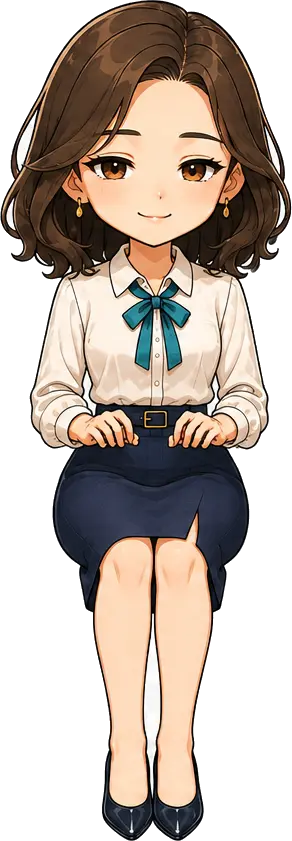
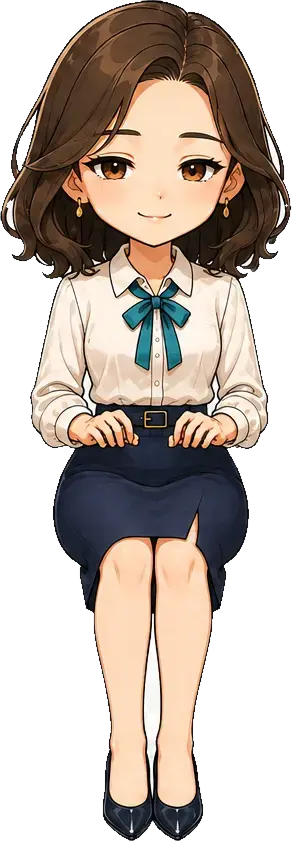
Fix secretary transparency and office scale

diff --git a/web/game.js b/web/game.js
@@ -1521,7 +1521,7 @@ function secretaryArt(candidateId, variant = "face", expression = "neutral") {
       : variant === "office"
         ? `${candidate.id}-office.webp`
         : `${candidate.id}-face-${safeExpression}.webp`;
-  return `<span class="secretary-art-slot secretary-${candidate.id} variant-${variant} expression-${safeExpression}" data-secretary-art="${candidate.id}-${variant}-${safeExpression}" aria-label="${escapeHtml(candidate.name)} ${variant === "resume" ? "증명사진" : variant === "fullbody" ? "전신" : variant === "office" ? "사무실 캐릭터" : "표정"}"><img src="assets/secretary/${filename}?v=20260903-secretary-art-v1" alt="" decoding="async"></span>`;
+  return `<span class="secretary-art-slot secretary-${candidate.id} variant-${variant} expression-${safeExpression}" data-secretary-art="${candidate.id}-${variant}-${safeExpression}" aria-label="${escapeHtml(candidate.name)} ${variant === "resume" ? "증명사진" : variant === "fullbody" ? "전신" : variant === "office" ? "사무실 캐릭터" : "표정"}"><img src="assets/secretary/${filename}?v=20260903-secretary-art-v2" alt="" decoding="async"></span>`;
 }
 
 function preloadSecretaryCandidateAssets(candidateId, complete = false) {
@@ -1533,7 +1533,7 @@ function preloadSecretaryCandidateAssets(candidateId, complete = false) {
     ["neutral", "smile", "confident", "worried", "surprised", "sorry"].forEach(expression => filenames.push(`${candidate.id}-face-${expression}.webp`));
   }
   filenames.forEach(filename => {
-    const source = `assets/secretary/${filename}?v=20260903-secretary-art-v1`;
+    const source = `assets/secretary/${filename}?v=20260903-secretary-art-v2`;
     if (preloadedSecretarySources.has(source)) return;
     preloadedSecretarySources.add(source);
     const image = new Image();

diff --git a/web/index.html b/web/index.html
@@ -6,7 +6,7 @@
   <meta name="theme-color" content="#17364a">
   <meta name="description" content="동료들과 함께 거대한 프로젝트를 공략하는 오피스 RPG, OFFICE RAID 웹 프로토타입">
   <title>OFFICE RAID · Live Preview</title>
-  <link rel="stylesheet" href="style.css?v=20260903-secretary-art-v1">
+  <link rel="stylesheet" href="style.css?v=20260903-secretary-art-v2">
   <link rel="stylesheet" href="project-report.css?v=20260903-report-avatar-v1">
 </head>
 <body>
@@ -28,7 +28,7 @@
   <script src="team-dispute.js?v=20260903-team-dispute-v1"></script>
   <script src="secretary-system.js?v=20260903-secretary-v2"></script>
   <script src="project-report-rules.js?v=20260902-project-report-v1"></script>
-  <script src="game.js?v=20260903-secretary-art-v1"></script>
+  <script src="game.js?v=20260903-secretary-art-v2"></script>
   <script src="project-report.js?v=20260903-labor-inspection-v1"></script>
   <script src="canonical-systems.js?v=20260903-secretary-v2"></script>
 </body>

diff --git a/web/style.css b/web/style.css
@@ -462,7 +462,7 @@ button:disabled { cursor: default; filter: grayscale(.6); opacity: .55; }
 .executive-desk .desk-identity > small { background: #8a6100; }
 .secretary-office-desk { z-index: 3; }
 .secretary-office-workspace { position: relative; width: min(88%,108px); aspect-ratio: 1; margin: 0 auto; }
-.secretary-office-workspace .secretary-art-slot { position: absolute; z-index: 1; top: -5%; left: 50%; width: 60%; height: 70%; translate: -50% 0; }
+.secretary-office-workspace .secretary-art-slot { position: absolute; z-index: 1; top: 1%; left: 50%; width: 42%; height: 70%; translate: -50% 0; }
 .secretary-office-workspace .office-desk-base { top: 44%; }
 .secretary-office-workspace .office-monitor-back { top: 48%; }
 .secretary-office-desk .desk-identity { border-color: var(--teal); background: #e6f3ed; }

diff --git a/web/secretary-integration.test.js b/web/secretary-integration.test.js
@@ -32,6 +32,7 @@ assert.match(canonical, /id="secretary-market-recommend"/);
 assert.match(canonical, /secretaryMailAssistMarkup\(mail\.id\)/);
 assert.match(canonical, /secretary-sale-recommended/);
 assert.match(css, /equipment-lock-toggle\.locked/);
+assert.match(css, /secretary-office-workspace \.secretary-art-slot \{[^}]*width: 42%/);
 assert.doesNotMatch(css, /secretary-[abc]\.webp/);
 
 const expressions = ["neutral", "smile", "confident", "worried", "surprised", "sorry"];
